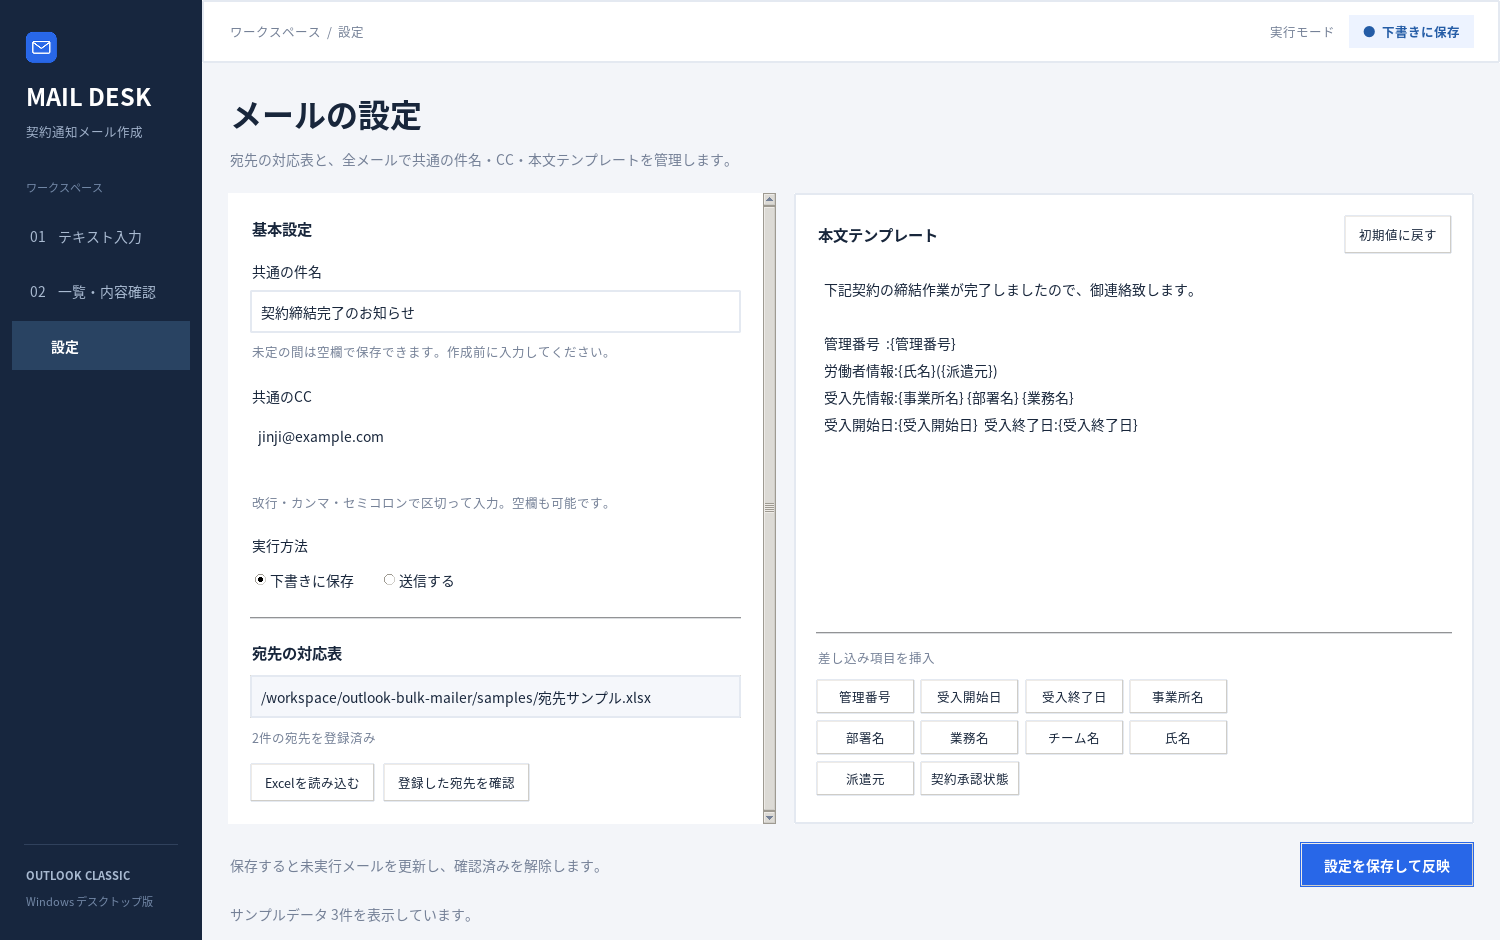
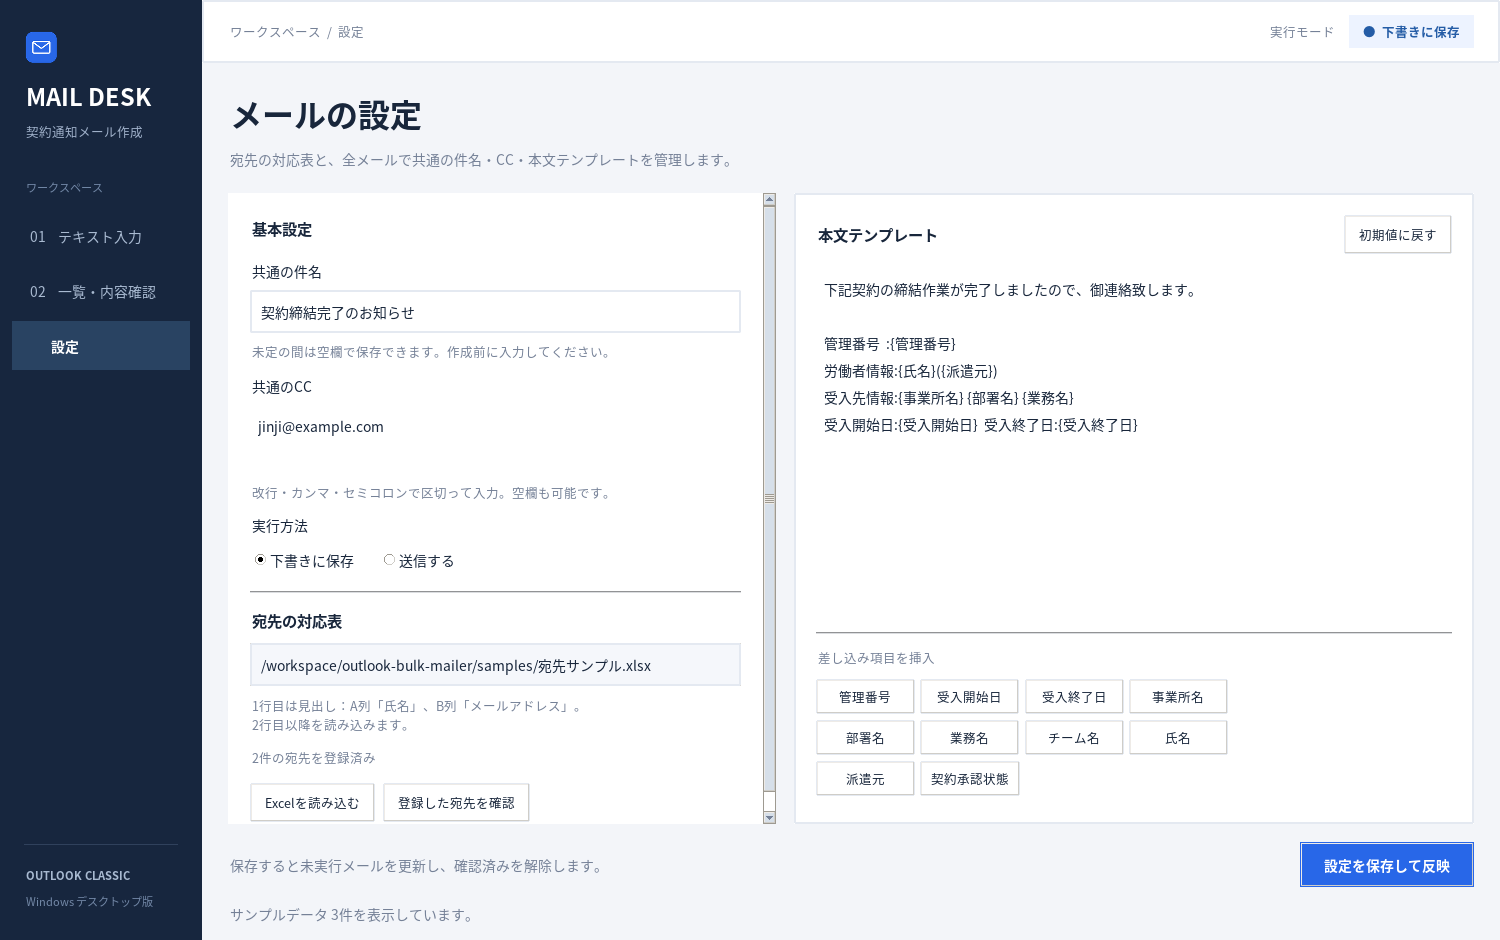
Fix address workbook layout to name in A and email in B with row-one headers

Changed region(s): [[0.1533, 0.5245, 0.4293, 0.8638], [0.1533, 0.4011, 0.2453, 0.4936], [0.4907, 0.833, 0.5213, 0.8638]]

diff --git a/bulk_mailer/design.py b/bulk_mailer/design.py
@@ -349,21 +349,22 @@ class Layout:
         ttk.Label(left, text="基本設定", style="CardTitle.TLabel").pack(anchor="w", pady=(0, 16))
         ttk.Label(left, text="共通の件名", style="Card.TLabel").pack(anchor="w", pady=(0, 7))
         ttk.Entry(left, textvariable=self.subject_var).pack(fill="x")
-        ttk.Label(left, text="未定の間は空欄で保存できます。作成前に入力してください。", style="CardMuted.TLabel", wraplength=430).pack(anchor="w", pady=(7, 20))
+        ttk.Label(left, text="未定の間は空欄で保存できます。作成前に入力してください。", style="CardMuted.TLabel", wraplength=430).pack(anchor="w", pady=(7, 10))
         ttk.Label(left, text="共通のCC", style="Card.TLabel").pack(anchor="w", pady=(0, 7))
         self.cc_input = self.text_box(left, height=2, width=20, wrap="word")
         self.cc_input.insert("1.0", self.settings.cc)
         self.cc_input.pack(fill="x")
-        ttk.Label(left, text="改行・カンマ・セミコロンで区切って入力。空欄も可能です。", style="CardMuted.TLabel", wraplength=430).pack(anchor="w", pady=(6, 18))
+        ttk.Label(left, text="改行・カンマ・セミコロンで区切って入力。空欄も可能です。", style="CardMuted.TLabel", wraplength=430).pack(anchor="w", pady=(6, 8))
         ttk.Label(left, text="実行方法", style="Card.TLabel").pack(anchor="w", pady=(0, 5))
         methods = ttk.Frame(left, style="Surface.TFrame")
         methods.pack(fill="x")
         ttk.Radiobutton(methods, text="下書きに保存", variable=self.mode_var, value="draft").pack(side="left")
         ttk.Radiobutton(methods, text="送信する", variable=self.mode_var, value="send").pack(side="left", padx=20)
-        ttk.Separator(left).pack(fill="x", pady=20)
+        ttk.Separator(left).pack(fill="x", pady=14)
         ttk.Label(left, text="宛先の対応表", style="CardTitle.TLabel").pack(anchor="w", pady=(0, 9))
         ttk.Entry(left, textvariable=self.path_var, state="readonly").pack(fill="x", pady=(0, 8))
-        self.contact_info = tk.StringVar(value="未登録：Excelの「氏名」「メールアドレス」列を読み込みます。")
+        ttk.Label(left, text="1行目は見出し：A列「氏名」、B列「メールアドレス」。\n2行目以降を読み込みます。", style="CardMuted.TLabel", wraplength=430).pack(anchor="w", pady=(0, 10))
+        self.contact_info = tk.StringVar(value="未登録：宛先Excelを読み込んでください。")
         ttk.Label(left, textvariable=self.contact_info, style="CardMuted.TLabel", wraplength=430).pack(anchor="w")
         controls = ttk.Frame(left, style="Surface.TFrame")
         controls.pack(fill="x", pady=(14, 0))

diff --git a/tests/test_core.py b/tests/test_core.py
@@ -77,18 +77,31 @@ class AddressTests(unittest.TestCase):
         with self.assertRaises(InputError):
             parse_cc("invalid address")
 
-    def test_excel_header_order_and_first_sheet(self):
+    def test_excel_fixed_columns_and_first_sheet(self):
         with tempfile.TemporaryDirectory() as directory:
             path = Path(directory) / "contacts.xlsx"
             book = Workbook()
             sheet = book.active
-            sheet.append(["備考", "メールアドレス", "氏名"])
-            sheet.append(["", "yamada@example.com", "山田 太郎"])
+            sheet.append(["氏名", "メールアドレス", "備考"])
+            sheet.append(["山田 太郎", "yamada@example.com", "読み込み対象外"])
             sheet.append([None, None, None])
             book.create_sheet("ignored").append(["無視する"])
             book.save(path)
             book.close()
             self.assertEqual(read_address_book(path).resolve("山田太郎"), "yamada@example.com")
+
+    def test_excel_reversed_or_shifted_columns_are_rejected(self):
+        for header, row in ((["メールアドレス", "氏名"], ["yamada@example.com", "山田 太郎"]),
+                            (["備考", "氏名", "メールアドレス"], ["", "山田 太郎", "yamada@example.com"])):
+            with self.subTest(header=header), tempfile.TemporaryDirectory() as directory:
+                path = Path(directory) / "contacts.xlsx"
+                book = Workbook()
+                book.active.append(header)
+                book.active.append(row)
+                book.save(path)
+                book.close()
+                with self.assertRaisesRegex(InputError, "A1.*B1"):
+                    read_address_book(path)
 
     def test_excel_invalid_rows_are_not_silently_dropped(self):
         for row in (["山田 太郎", "invalid"], [None, "a@example.com"], ["=A1", "a@example.com"]):

diff --git a/bulk_mailer/core.py b/bulk_mailer/core.py
@@ -194,9 +194,9 @@ def read_address_book(path: str | Path) -> AddressBook:
         sheet.reset_dimensions()
         rows = sheet.iter_rows(values_only=True)
         header = [str(cell).strip() if cell is not None else "" for cell in next(rows, ())]
-        if header.count("氏名") != 1 or header.count("メールアドレス") != 1:
-            raise InputError("先頭シートの1行目に「氏名」「メールアドレス」の列を1つずつ用意してください。")
-        name_column, email_column = header.index("氏名"), header.index("メールアドレス")
+        if header[:2] != ["氏名", "メールアドレス"]:
+            raise InputError("先頭シートの1行目はA1に「氏名」、B1に「メールアドレス」を入力してください。2行目以降のA列・B列を読み込みます。")
+        name_column, email_column = 0, 1
         contacts = []
         for number, row in enumerate(rows, start=2):
             if number > MAX_ADDRESS_ROWS + 1:

diff --git a/tests/test_audit_data.py b/tests/test_audit_data.py
@@ -111,7 +111,7 @@ class AdversarialDataTests(unittest.TestCase):
     def test_sparse_excel_missing_email_reports_row(self):
         with tempfile.TemporaryDirectory() as directory:
             path = Path(directory) / "sparse.xlsx"
-            make_workbook(path, [["氏名", "備考", "メールアドレス"], ["山田"]])
+            make_workbook(path, [["氏名", "メールアドレス", "備考"], ["山田"]])
             with self.assertRaisesRegex(InputError, "2行目"):
                 read_address_book(path)
 

diff --git a/README.md b/README.md
@@ -70,7 +70,7 @@ dist/
 「設定」タブで次を指定し、「設定を保存して反映」を押します。
 
 - **共通の件名**: 全員同じ件名です。未定の間は空欄で保存でき、本文のプレビューも利用できます。下書き作成・送信前には件名の入力が必要です。
-- **宛先Excel**: `.xlsx` の先頭シートを読み込みます。1行目に `氏名`、`メールアドレス` の列を用意してください。列の順番や他の列の有無は自由です。2行目以降に1人1行で入力します。数式ではなく文字列で入力してください。
+- **宛先Excel**: `.xlsx` の先頭シートを読み込みます。**A列を氏名、B列をメールアドレスに固定**し、1行目の見出しは **A1に `氏名`、B1に `メールアドレス`** を入力してください。2行目以降に1人1行で登録します。C列以降は読み込み対象外です。数式ではなく文字列で入力してください。
 - **共通のCC**: 全メールに適用します。改行、カンマ、セミコロンで複数のメールアドレスを区切れます。空欄も可能です。
 - **実行方法**: 初期値は「下書きに保存」です。「送信する」に変更すると確認後に送信を要求します。
 - **本文テンプレート**: `{氏名}` などの記号に取り込みデータを差し込みます。画面に全項目の記号を表示しています。通常の波括弧を表示したい場合は `{{` と `}}` を使います。
@@ -156,7 +156,7 @@ python -m unittest discover -s tests -v
 
 テストでは入力の構造・日付・文字コード・Excel照合・本文・設定の保存・実行前の検証・途中エラー時の停止と処理記録を検証します。GUIでは、取り込み結果の表示、確認・除外、設定反映、モード表示、処理中の操作制限を検証します。GUIテストにはディスプレイが必要です。Outlookの保存・送信呼び分けはモックで確認します。
 
-開発環境はLinuxです。サブエージェント3役による独立監査と修正後の再監査を実施し、GUIを含む101件のテストが成功しました。実際のTk画面も起動・撮影済みです。[最終監査報告](docs/FINAL_AUDIT.md)に指摘・修正・検証範囲をまとめています。
+開発環境はLinuxです。サブエージェント3役による独立監査と修正後の再監査を実施し、GUIを含む102件のテストが成功しました。実際のTk画面も起動・撮影済みです。[最終監査報告](docs/FINAL_AUDIT.md)に指摘・修正・検証範囲をまとめています。
 
 Windows上のEXEビルド・起動、WindowsでのOSロック、実際のOutlook COM連携は未検証です。導入時に対象WindowsでEXEをビルドし、少数データの下書き保存・宛先解決を確認する必要があります。
 
